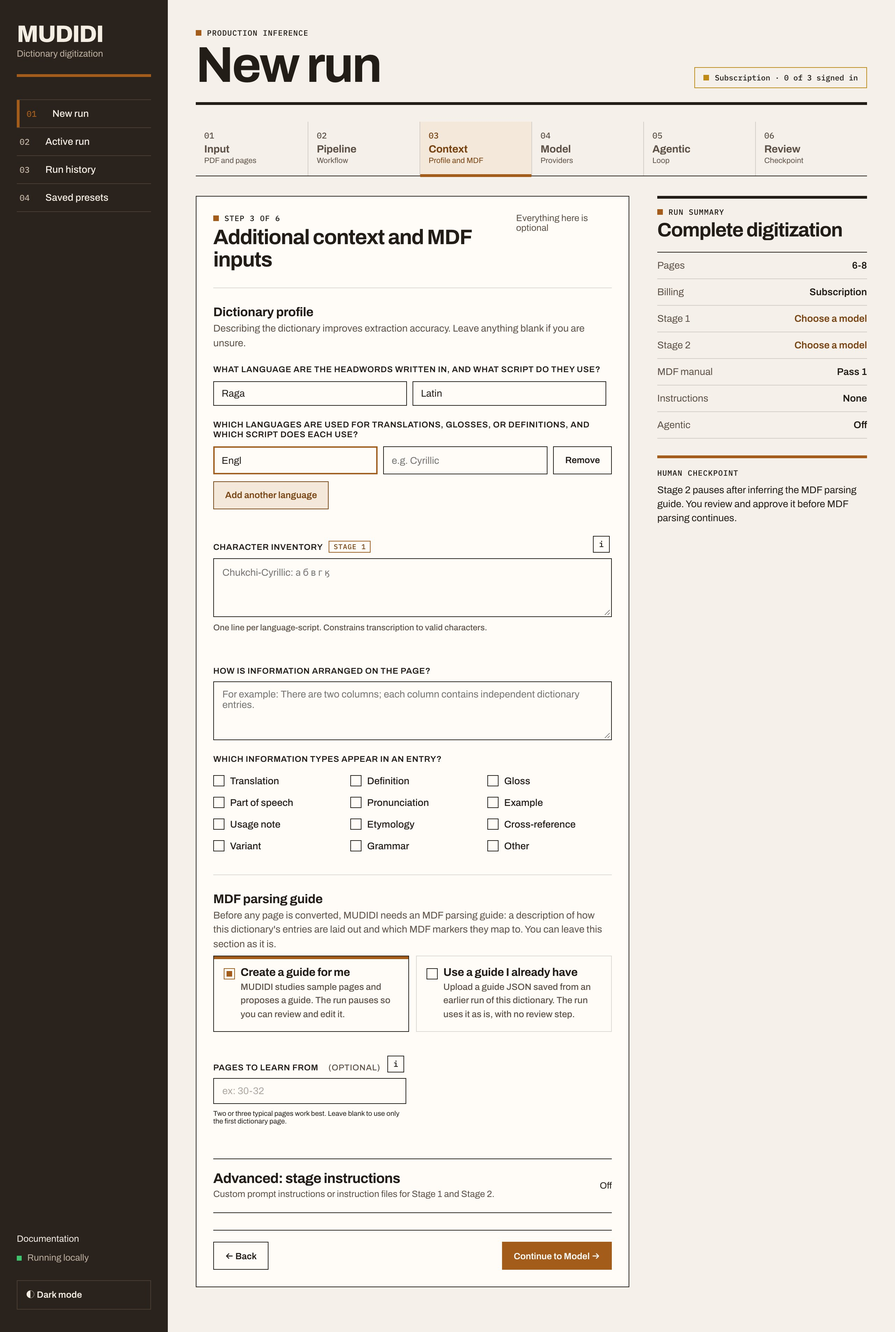
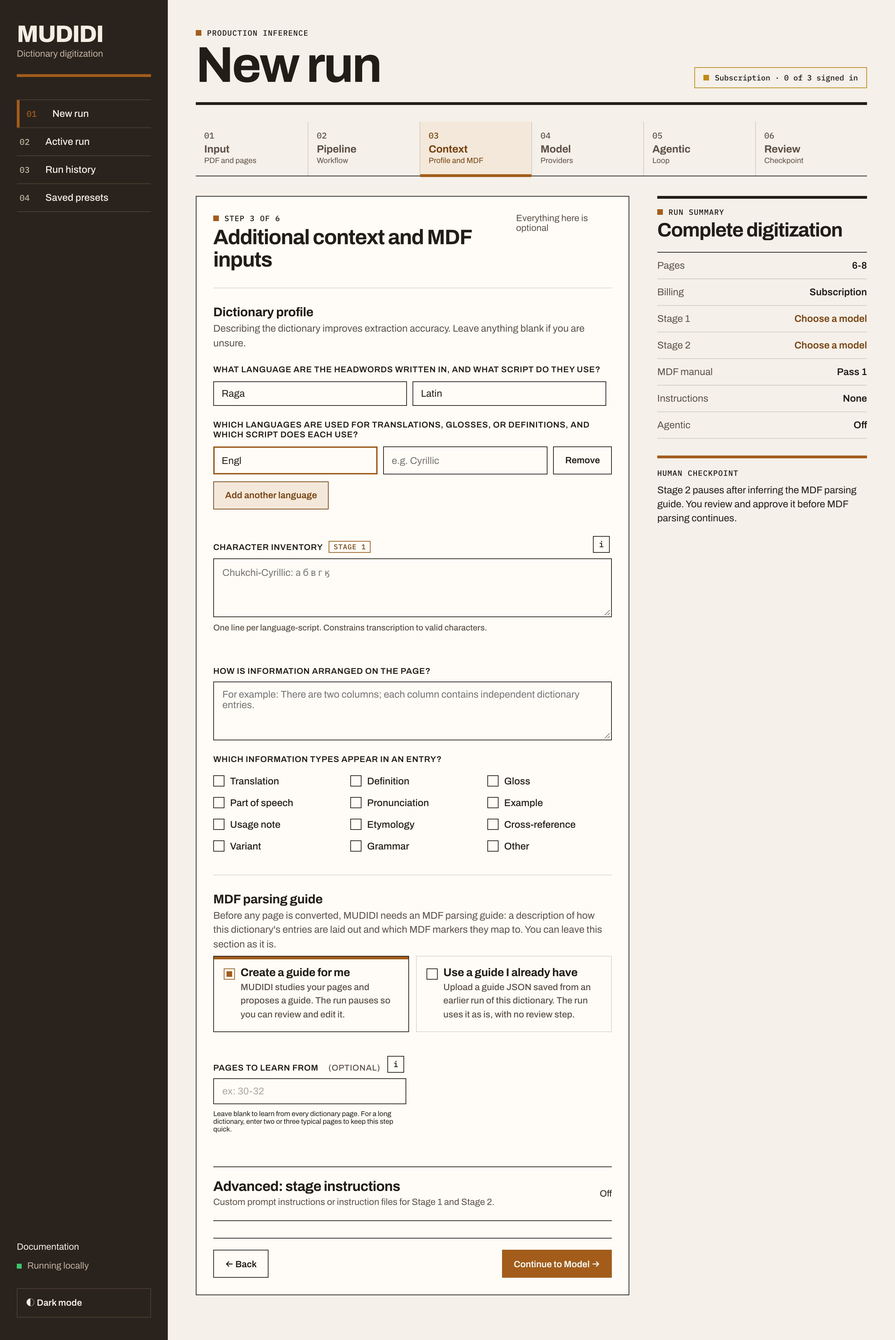
chore(demo): recapture the context step with the all-pages hint

diff --git a/demo-video/index.html b/demo-video/index.html
@@ -116,7 +116,7 @@
         </div>
       </section>
       <section id="scene-context" class="clip scene" data-start="16.4" data-duration="15.2" data-track-index="1">
-        <div id="stage-context" class="stage" data-layout-allow-overflow style="height: 1904px">
+        <div id="stage-context" class="stage" data-layout-allow-overflow style="height: 1915px">
           <img id="f-cx-0" class="frame" src="assets/cap/cx-0.jpg" alt="" style="opacity: 1" />
           <img id="f-cx-head-1" class="frame" src="assets/cap/cx-head-1.jpg" alt="" style="opacity: 0" />
           <img id="f-cx-head-2" class="frame" src="assets/cap/cx-head-2.jpg" alt="" style="opacity: 0" />
@@ -263,7 +263,7 @@
     </div>
     <script>
       // Everything here replays the schedule computed in capture/build.mjs.
-      const OPS = [{"k":"from","sel":"#scan-sheet","a":{"opacity":0,"y":70,"duration":0.7,"ease":"power3.out"},"t":0.1},{"k":"from","sel":"#scan-eyebrow","a":{"opacity":0,"duration":0.5,"ease":"power2.out"},"t":0.5},{"k":"fromTo","sel":"#scan-line","a":{"y":-10,"opacity":0},"b":{"opacity":1,"duration":0.2},"t":0.9},{"k":"to","sel":"#scan-line","a":{"y":900,"duration":3.6,"ease":"none"},"t":1},{"k":"to","sel":"#scan-line","a":{"opacity":0,"duration":0.3},"t":4.5},{"k":"fromTo","sel":"#scan-box-1","a":{"opacity":0,"scaleX":0.3},"b":{"opacity":1,"scaleX":1,"duration":0.3,"ease":"power3.out"},"t":1.95},{"k":"to","sel":"#scan-link-1","a":{"strokeDashoffset":0,"duration":0.4,"ease":"power2.inOut"},"t":2.05},{"k":"from","sel":"#scan-record-1","a":{"opacity":0,"x":40,"duration":0.35,"ease":"power3.out"},"t":2.25},{"k":"fromTo","sel":"#scan-r1a","a":{"clipPath":"inset(0 100% 0 0)"},"b":{"clipPath":"inset(0 0% 0 0)","duration":0.3,"ease":"steps(10)"},"t":2.4},{"k":"fromTo","sel":"#scan-r1b","a":{"clipPath":"inset(0 100% 0 0)"},"b":{"clipPath":"inset(0 0% 0 0)","duration":0.3,"ease":"steps(10)"},"t":2.62},{"k":"fromTo","sel":"#scan-r1c","a":{"clipPath":"inset(0 100% 0 0)"},"b":{"clipPath":"inset(0 0% 0 0)","duration":0.3,"ease":"steps(10)"},"t":2.84},{"k":"fromTo","sel":"#scan-box-2","a":{"opacity":0,"scaleX":0.3},"b":{"opacity":1,"scaleX":1,"duration":0.3,"ease":"power3.out"},"t":2.7},{"k":"to","sel":"#scan-link-2","a":{"strokeDashoffset":0,"duration":0.4,"ease":"power2.inOut"},"t":2.8000000000000003},{"k":"from","sel":"#scan-record-2","a":{"opacity":0,"x":40,"duration":0.35,"ease":"power3.out"},"t":3},{"k":"fromTo","sel":"#scan-r2a","a":{"clipPath":"inset(0 100% 0 0)"},"b":{"clipPath":"inset(0 0% 0 0)","duration":0.3,"ease":"steps(10)"},"t":3.15},{"k":"fromTo","sel":"#scan-r2b","a":{"clipPath":"inset(0 100% 0 0)"},"b":{"clipPath":"inset(0 0% 0 0)","duration":0.3,"ease":"steps(10)"},"t":3.37},{"k":"fromTo","sel":"#scan-box-3","a":{"opacity":0,"scaleX":0.3},"b":{"opacity":1,"scaleX":1,"duration":0.3,"ease":"power3.out"},"t":4.15},{"k":"to","sel":"#scan-link-3","a":{"strokeDashoffset":0,"duration":0.4,"ease":"power2.inOut"},"t":4.25},{"k":"from","sel":"#scan-record-3","a":{"opacity":0,"x":40,"duration":0.35,"ease":"power3.out"},"t":4.45},{"k":"fromTo","sel":"#scan-r3a","a":{"clipPath":"inset(0 100% 0 0)"},"b":{"clipPath":"inset(0 0% 0 0)","duration":0.3,"ease":"steps(10)"},"t":4.6},{"k":"fromTo","sel":"#scan-r3b","a":{"clipPath":"inset(0 100% 0 0)"},"b":{"clipPath":"inset(0 0% 0 0)","duration":0.3,"ease":"steps(10)"},"t":4.82},{"k":"fromTo","sel":"#scan-r3c","a":{"clipPath":"inset(0 100% 0 0)"},"b":{"clipPath":"inset(0 0% 0 0)","duration":0.3,"ease":"steps(10)"},"t":5.04},{"k":"from","sel":"#scan-title","a":{"opacity":0,"y":40,"duration":0.6,"ease":"power3.out"},"t":5.3},{"k":"to","sel":["#scan-sheet","#scan-links","#scan-copy"],"a":{"opacity":0,"duration":0.3,"ease":"power1.in"},"t":6.85},{"k":"cam","scene":"input","view":{"x":200,"y":240,"w":1080},"d":0,"t":7.2},{"k":"fromTo","sel":"#stage-input","a":{"opacity":0},"b":{"opacity":1,"duration":0.3,"ease":"power1.out"},"t":7.2},{"k":"fromTo","sel":"#chip-body","a":{"x":70,"y":730,"opacity":0,"scale":0.9},"b":{"opacity":1,"scale":1,"duration":0.35,"ease":"power2.out"},"t":7.5},{"k":"cursor","to":[340.625,690],"d":0.7,"rest":true,"t":7.5},{"k":"click","t":8.38},{"k":"to","sel":"#chip-body","a":{"x":513.3333333333334,"y":385.8333333333333,"duration":1.1,"ease":"power2.inOut"},"t":8.67},{"k":"cursor","to":[590,496.40625],"d":1.1,"rest":false,"t":8.67},{"k":"frame","name":"in-drag","t":9.42},{"k":"to","sel":"#chip-body","a":{"opacity":0,"scale":0.7,"duration":0.25,"ease":"power2.in"},"t":10.02},{"k":"click","t":10.2},{"k":"frame","name":"in-file","t":10.34},{"k":"cam","scene":"input","view":{"x":250,"y":330,"w":940},"d":0.7,"t":11.04},{"k":"cursor","to":[443,707.828125],"d":0.8,"rest":false,"t":11.04},{"k":"click","t":12.02},{"k":"frame","name":"in-pages-1","t":12.38},{"k":"frame","name":"in-pages-2","t":12.6},{"k":"frame","name":"in-pages-3","t":12.82},{"k":"cam","scene":"input","view":{"x":200,"y":130,"w":1080},"d":0.7,"t":13.62},{"k":"cursor","to":[680.5,213.609375],"d":0.8,"rest":false,"t":14.32},{"k":"click","t":15.3},{"k":"cam","scene":"context","view":{"x":200,"y":130,"w":1080},"d":0,"t":16.4},{"k":"cam","scene":"context","view":{"x":240,"y":440,"w":960},"d":0.8,"t":16.7},{"k":"cursor","to":[443.5,562.578125],"d":0.6,"rest":false,"t":17.5},{"k":"click","t":18.28},{"k":"frame","name":"cx-head-1","t":18.6},{"k":"frame","name":"cx-head-2","t":18.78},{"k":"cursor","to":[728.5,562.578125],"d":0.4,"rest":false,"t":18.78},{"k":"click","t":19.36},{"k":"frame","name":"cx-hs-1","t":19.5},{"k":"cursor","to":[422.59375,658.078125],"d":0.45,"rest":false,"t":19.5},{"k":"click","t":20.13},{"k":"frame","name":"cx-tl-1","t":20.45},{"k":"frame","name":"cx-tl-2","t":20.63},{"k":"cursor","to":[665.78125,658.078125],"d":0.4,"rest":false,"t":20.63},{"k":"click","t":21.21},{"k":"frame","name":"cx-ts-1","t":21.35},{"k":"cursor","to":[590,840.078125],"d":0.5,"rest":false,"t":21.35},{"k":"click","t":22.03},{"k":"frame","name":"cx-inv-1","t":22.37},{"k":"frame","name":"cx-inv-2","t":22.57},{"k":"frame","name":"cx-inv-3","t":22.77},{"k":"frame","name":"cx-inv-4","t":22.97},{"k":"cam","scene":"context","view":{"x":240,"y":760,"w":960},"d":0.7,"t":23.37},{"k":"cursor","to":[590,1016.078125],"d":0.5,"rest":false,"t":24.07},{"k":"click","t":24.75},{"k":"frame","name":"cx-lay-1","t":25.06},{"k":"frame","name":"cx-lay-2","t":25.23},{"k":"frame","name":"cx-lay-3","t":25.4},{"k":"frame","name":"cx-lay-4","t":25.57},{"k":"frame","name":"cx-lay-5","t":25.74},{"k":"frame","name":"cx-lay-6","t":25.91},{"k":"frame","name":"cx-lay-7","t":26.08},{"k":"frame","name":"cx-lay-8","t":26.25},{"k":"cursor","to":[313,1116.078125],"d":0.45,"rest":false,"t":26.55},{"k":"cursor","to":[313,1209.078125],"d":1.2,"rest":false,"t":27.1},{"k":"frame","name":"cx-type-1","t":27.17},{"k":"frame","name":"cx-type-2","t":27.34},{"k":"frame","name":"cx-type-3","t":27.51},{"k":"frame","name":"cx-type-4","t":27.68},{"k":"frame","name":"cx-type-5","t":27.85},{"k":"frame","name":"cx-type-6","t":28.02},{"k":"frame","name":"cx-type-7","t":28.19},{"k":"cam","scene":"context","view":{"x":240,"y":1394.65625,"w":960},"d":1,"t":28.89},{"k":"cursor","to":[796.3671875,1794.65625],"d":0.7,"rest":false,"t":29.89},{"k":"click","t":30.77},{"k":"cam","scene":"model","view":{"x":240,"y":640,"w":960},"d":0,"t":31.6},{"k":"fromTo","sel":"#stage-model","a":{"opacity":0},"b":{"opacity":1,"duration":0.3,"ease":"power1.out"},"t":31.6},{"k":"cursor","to":[356.484375,897.640625],"d":0.8,"rest":false,"t":32},{"k":"click","t":32.98},{"k":"frame","name":"md-waiting","t":33.12},{"k":"fromTo","sel":"#popup-shade","a":{"opacity":0},"b":{"opacity":1,"duration":0.25,"ease":"power1.out"},"t":33.42},{"k":"fromTo","sel":"#popup-window","a":{"opacity":0,"scale":0.92,"y":30},"b":{"opacity":1,"scale":1,"y":0,"duration":0.35,"ease":"power3.out"},"t":33.42},{"k":"cursor","to":[720,930],"d":0.7,"rest":true,"t":34.02},{"k":"click","t":34.9},{"k":"to","sel":"#popup-choose","a":{"opacity":0,"duration":0.15},"t":35.04},{"k":"to","sel":"#popup-done","a":{"opacity":1,"duration":0.2},"t":35.19},{"k":"fromTo","sel":"#done-mark","a":{"scale":0.4},"b":{"scale":1,"duration":0.4,"ease":"back.out(2)"},"t":35.19},{"k":"frame","name":"md-signed","t":36.39},{"k":"to","sel":"#popup-window","a":{"opacity":0,"scale":0.95,"duration":0.25,"ease":"power2.in"},"t":36.39},{"k":"to","sel":"#popup-shade","a":{"opacity":0,"duration":0.25},"t":36.39},{"k":"cursor","to":[443,1099.640625],"d":0.8,"rest":false,"t":37.39},{"k":"click","t":38.37},{"k":"frame","name":"md-prov1","t":38.51},{"k":"cursor","to":[737,1099.640625],"d":0.6,"rest":false,"t":39.01},{"k":"click","t":39.79},{"k":"frame","name":"md-prov2","t":39.93},{"k":"cam","scene":"model","view":{"x":240,"y":1060,"w":960},"d":0.8,"t":40.53},{"k":"cursor","to":[443,1278.640625],"d":0.75,"rest":false,"t":41.63},{"k":"click","t":42.56},{"k":"frame","name":"md-model1","t":42.7},{"k":"cursor","to":[737,1278.640625],"d":0.75,"rest":false,"t":43.45},{"k":"click","t":44.38},{"k":"frame","name":"md-reason1","t":44.52},{"k":"cursor","to":[443,1457.640625],"d":0.75,"rest":false,"t":45.27},{"k":"click","t":46.2},{"k":"frame","name":"md-model2","t":46.34},{"k":"cursor","to":[737,1457.640625],"d":0.75,"rest":false,"t":47.09},{"k":"click","t":48.02},{"k":"frame","name":"md-reason2","t":48.16},{"k":"cam","scene":"model","view":{"x":240,"y":1200,"w":960},"d":0.6,"t":49.21},{"k":"cursor","to":[791.75,1644.640625],"d":0.7,"rest":false,"t":49.81},{"k":"click","t":50.69},{"k":"cam","scene":"agentic","view":{"x":200,"y":330,"w":1080},"d":0,"t":51.6},{"k":"cursor","to":[631,634.265625],"d":0.8,"rest":false,"t":52},{"k":"click","t":52.98},{"k":"frame","name":"ag-on","t":53.12},{"k":"cam","scene":"agentic","view":{"x":200,"y":862.859375,"w":1080},"d":1.4,"t":54.52},{"k":"cursor","to":[817.5546875,1352.859375],"d":0.7,"rest":false,"t":56.22},{"k":"click","t":57.1},{"k":"cam","scene":"run1","view":{"x":180,"y":230,"w":1100},"d":0,"t":58},{"k":"fromTo","sel":"#stage-run1","a":{"opacity":0},"b":{"opacity":1,"duration":0.3,"ease":"power1.out"},"t":58},{"k":"cursor","to":[760,520],"d":0.6,"rest":true,"t":58},{"k":"frame","name":"ov-s1-1","t":59.5},{"k":"frame","name":"ov-s1-2","t":60.4},{"k":"frame","name":"ov-disc","t":61.3},{"k":"frame","name":"ov-review","t":62.2},{"k":"cursor","to":[476.4609375,686.53125],"d":0.7,"rest":false,"t":62.6},{"k":"click","t":63.48},{"k":"cam","scene":"guide","view":{"x":200,"y":0,"w":1080},"d":0,"t":64.4},{"k":"fromTo","sel":"#stage-guide","a":{"opacity":0},"b":{"opacity":1,"duration":0.3,"ease":"power1.out"},"t":64.4},{"k":"cursor","to":[900,400],"d":0.5,"rest":true,"t":64.4},{"k":"cam","scene":"guide","view":{"x":200,"y":892,"w":1080},"d":2.8,"t":65.2},{"k":"cursor","to":[1118.234375,1463.078125],"d":0.7,"rest":false,"t":68.2},{"k":"click","t":69.08},{"k":"cam","scene":"run2","view":{"x":180,"y":215,"w":1100},"d":0,"t":70},{"k":"fromTo","sel":"#stage-run2","a":{"opacity":0},"b":{"opacity":1,"duration":0.3,"ease":"power1.out"},"t":70},{"k":"cursor","to":[760,560],"d":0.5,"rest":true,"t":70},{"k":"frame","name":"ov-s2-2","t":71},{"k":"frame","name":"ov-done","t":71.8},{"k":"cursor","to":[590.859375,249.03125],"d":0.7,"rest":false,"t":72.4},{"k":"click","t":73.28},{"k":"cam","scene":"pages","view":{"x":240,"y":330,"w":1040},"d":0,"t":74},{"k":"fromTo","sel":"#stage-pages","a":{"opacity":0},"b":{"opacity":1,"duration":0.3,"ease":"power1.out"},"t":74},{"k":"cursor","to":[520,640],"d":0.6,"rest":true,"t":74},{"k":"cam","scene":"pages","view":{"x":240,"y":560,"w":1040},"d":1,"t":75.1},{"k":"cursor","to":[876,960],"d":0.7,"rest":true,"t":76.8},{"k":"click","t":77.68},{"k":"frame","name":"pg-edit-1","t":78.02},{"k":"frame","name":"pg-edit-2","t":78.32},{"k":"cam","scene":"pages","view":{"x":240,"y":700,"w":1040},"d":0.6,"t":79.22},{"k":"cursor","to":[1164.6484375,1190.265625],"d":0.7,"rest":false,"t":79.82},{"k":"click","t":80.7},{"k":"from","sel":"#outro-word","a":{"opacity":0,"y":60,"duration":0.7,"ease":"power3.out"},"t":82.15},{"k":"from","sel":"#outro-rule","a":{"scaleX":0,"duration":0.8,"ease":"power2.inOut"},"t":82.5},{"k":"from","sel":"#outro-line","a":{"opacity":0,"y":24,"duration":0.6,"ease":"power2.out"},"t":82.9},{"k":"from","sel":"#outro-local","a":{"opacity":0,"duration":0.6,"ease":"power2.out"},"t":83.4},{"k":"to","sel":"#outro-copy","a":{"opacity":0,"duration":0.8,"ease":"power1.in"},"t":85.9},{"k":"fromTo","sel":"#caption-text-0","a":{"opacity":0,"y":24},"b":{"opacity":1,"y":0,"duration":0.3,"ease":"power2.out"},"t":7.4},{"k":"to","sel":"#caption-text-0","a":{"opacity":0,"duration":0.2,"ease":"power1.in"},"t":15.14},{"k":"fromTo","sel":"#caption-text-1","a":{"opacity":0,"y":24},"b":{"opacity":1,"y":0,"duration":0.3,"ease":"power2.out"},"t":16.6},{"k":"to","sel":"#caption-text-1","a":{"opacity":0,"duration":0.2,"ease":"power1.in"},"t":28.69},{"k":"fromTo","sel":"#caption-text-2","a":{"opacity":0,"y":24},"b":{"opacity":1,"y":0,"duration":0.3,"ease":"power2.out"},"t":31.8},{"k":"to","sel":"#caption-text-2","a":{"opacity":0,"duration":0.2,"ease":"power1.in"},"t":37.19},{"k":"fromTo","sel":"#caption-text-3","a":{"opacity":0,"y":24},"b":{"opacity":1,"y":0,"duration":0.3,"ease":"power2.out"},"t":40.63},{"k":"to","sel":"#caption-text-3","a":{"opacity":0,"duration":0.2,"ease":"power1.in"},"t":49.01},{"k":"fromTo","sel":"#caption-text-4","a":{"opacity":0,"y":24},"b":{"opacity":1,"y":0,"duration":0.3,"ease":"power2.out"},"t":51.9},{"k":"to","sel":"#caption-text-4","a":{"opacity":0,"duration":0.2,"ease":"power1.in"},"t":55.72},{"k":"fromTo","sel":"#caption-text-5","a":{"opacity":0,"y":24},"b":{"opacity":1,"y":0,"duration":0.3,"ease":"power2.out"},"t":58.2},{"k":"to","sel":"#caption-text-5","a":{"opacity":0,"duration":0.2,"ease":"power1.in"},"t":63.42},{"k":"fromTo","sel":"#caption-text-6","a":{"opacity":0,"y":24},"b":{"opacity":1,"y":0,"duration":0.3,"ease":"power2.out"},"t":64.6},{"k":"to","sel":"#caption-text-6","a":{"opacity":0,"duration":0.2,"ease":"power1.in"},"t":67.8},{"k":"fromTo","sel":"#caption-text-7","a":{"opacity":0,"y":24},"b":{"opacity":1,"y":0,"duration":0.3,"ease":"power2.out"},"t":70.2},{"k":"to","sel":"#caption-text-7","a":{"opacity":0,"duration":0.2,"ease":"power1.in"},"t":72.2},{"k":"fromTo","sel":"#caption-text-8","a":{"opacity":0,"y":24},"b":{"opacity":1,"y":0,"duration":0.3,"ease":"power2.out"},"t":74.2},{"k":"to","sel":"#caption-text-8","a":{"opacity":0,"duration":0.2,"ease":"power1.in"},"t":79.02}];
+      const OPS = [{"k":"from","sel":"#scan-sheet","a":{"opacity":0,"y":70,"duration":0.7,"ease":"power3.out"},"t":0.1},{"k":"from","sel":"#scan-eyebrow","a":{"opacity":0,"duration":0.5,"ease":"power2.out"},"t":0.5},{"k":"fromTo","sel":"#scan-line","a":{"y":-10,"opacity":0},"b":{"opacity":1,"duration":0.2},"t":0.9},{"k":"to","sel":"#scan-line","a":{"y":900,"duration":3.6,"ease":"none"},"t":1},{"k":"to","sel":"#scan-line","a":{"opacity":0,"duration":0.3},"t":4.5},{"k":"fromTo","sel":"#scan-box-1","a":{"opacity":0,"scaleX":0.3},"b":{"opacity":1,"scaleX":1,"duration":0.3,"ease":"power3.out"},"t":1.95},{"k":"to","sel":"#scan-link-1","a":{"strokeDashoffset":0,"duration":0.4,"ease":"power2.inOut"},"t":2.05},{"k":"from","sel":"#scan-record-1","a":{"opacity":0,"x":40,"duration":0.35,"ease":"power3.out"},"t":2.25},{"k":"fromTo","sel":"#scan-r1a","a":{"clipPath":"inset(0 100% 0 0)"},"b":{"clipPath":"inset(0 0% 0 0)","duration":0.3,"ease":"steps(10)"},"t":2.4},{"k":"fromTo","sel":"#scan-r1b","a":{"clipPath":"inset(0 100% 0 0)"},"b":{"clipPath":"inset(0 0% 0 0)","duration":0.3,"ease":"steps(10)"},"t":2.62},{"k":"fromTo","sel":"#scan-r1c","a":{"clipPath":"inset(0 100% 0 0)"},"b":{"clipPath":"inset(0 0% 0 0)","duration":0.3,"ease":"steps(10)"},"t":2.84},{"k":"fromTo","sel":"#scan-box-2","a":{"opacity":0,"scaleX":0.3},"b":{"opacity":1,"scaleX":1,"duration":0.3,"ease":"power3.out"},"t":2.7},{"k":"to","sel":"#scan-link-2","a":{"strokeDashoffset":0,"duration":0.4,"ease":"power2.inOut"},"t":2.8000000000000003},{"k":"from","sel":"#scan-record-2","a":{"opacity":0,"x":40,"duration":0.35,"ease":"power3.out"},"t":3},{"k":"fromTo","sel":"#scan-r2a","a":{"clipPath":"inset(0 100% 0 0)"},"b":{"clipPath":"inset(0 0% 0 0)","duration":0.3,"ease":"steps(10)"},"t":3.15},{"k":"fromTo","sel":"#scan-r2b","a":{"clipPath":"inset(0 100% 0 0)"},"b":{"clipPath":"inset(0 0% 0 0)","duration":0.3,"ease":"steps(10)"},"t":3.37},{"k":"fromTo","sel":"#scan-box-3","a":{"opacity":0,"scaleX":0.3},"b":{"opacity":1,"scaleX":1,"duration":0.3,"ease":"power3.out"},"t":4.15},{"k":"to","sel":"#scan-link-3","a":{"strokeDashoffset":0,"duration":0.4,"ease":"power2.inOut"},"t":4.25},{"k":"from","sel":"#scan-record-3","a":{"opacity":0,"x":40,"duration":0.35,"ease":"power3.out"},"t":4.45},{"k":"fromTo","sel":"#scan-r3a","a":{"clipPath":"inset(0 100% 0 0)"},"b":{"clipPath":"inset(0 0% 0 0)","duration":0.3,"ease":"steps(10)"},"t":4.6},{"k":"fromTo","sel":"#scan-r3b","a":{"clipPath":"inset(0 100% 0 0)"},"b":{"clipPath":"inset(0 0% 0 0)","duration":0.3,"ease":"steps(10)"},"t":4.82},{"k":"fromTo","sel":"#scan-r3c","a":{"clipPath":"inset(0 100% 0 0)"},"b":{"clipPath":"inset(0 0% 0 0)","duration":0.3,"ease":"steps(10)"},"t":5.04},{"k":"from","sel":"#scan-title","a":{"opacity":0,"y":40,"duration":0.6,"ease":"power3.out"},"t":5.3},{"k":"to","sel":["#scan-sheet","#scan-links","#scan-copy"],"a":{"opacity":0,"duration":0.3,"ease":"power1.in"},"t":6.85},{"k":"cam","scene":"input","view":{"x":200,"y":240,"w":1080},"d":0,"t":7.2},{"k":"fromTo","sel":"#stage-input","a":{"opacity":0},"b":{"opacity":1,"duration":0.3,"ease":"power1.out"},"t":7.2},{"k":"fromTo","sel":"#chip-body","a":{"x":70,"y":730,"opacity":0,"scale":0.9},"b":{"opacity":1,"scale":1,"duration":0.35,"ease":"power2.out"},"t":7.5},{"k":"cursor","to":[340.625,690],"d":0.7,"rest":true,"t":7.5},{"k":"click","t":8.38},{"k":"to","sel":"#chip-body","a":{"x":513.3333333333334,"y":385.8333333333333,"duration":1.1,"ease":"power2.inOut"},"t":8.67},{"k":"cursor","to":[590,496.40625],"d":1.1,"rest":false,"t":8.67},{"k":"frame","name":"in-drag","t":9.42},{"k":"to","sel":"#chip-body","a":{"opacity":0,"scale":0.7,"duration":0.25,"ease":"power2.in"},"t":10.02},{"k":"click","t":10.2},{"k":"frame","name":"in-file","t":10.34},{"k":"cam","scene":"input","view":{"x":250,"y":330,"w":940},"d":0.7,"t":11.04},{"k":"cursor","to":[443,707.828125],"d":0.8,"rest":false,"t":11.04},{"k":"click","t":12.02},{"k":"frame","name":"in-pages-1","t":12.38},{"k":"frame","name":"in-pages-2","t":12.6},{"k":"frame","name":"in-pages-3","t":12.82},{"k":"cam","scene":"input","view":{"x":200,"y":130,"w":1080},"d":0.7,"t":13.62},{"k":"cursor","to":[680.5,213.609375],"d":0.8,"rest":false,"t":14.32},{"k":"click","t":15.3},{"k":"cam","scene":"context","view":{"x":200,"y":130,"w":1080},"d":0,"t":16.4},{"k":"cam","scene":"context","view":{"x":240,"y":440,"w":960},"d":0.8,"t":16.7},{"k":"cursor","to":[443.5,562.578125],"d":0.6,"rest":false,"t":17.5},{"k":"click","t":18.28},{"k":"frame","name":"cx-head-1","t":18.6},{"k":"frame","name":"cx-head-2","t":18.78},{"k":"cursor","to":[728.5,562.578125],"d":0.4,"rest":false,"t":18.78},{"k":"click","t":19.36},{"k":"frame","name":"cx-hs-1","t":19.5},{"k":"cursor","to":[422.59375,658.078125],"d":0.45,"rest":false,"t":19.5},{"k":"click","t":20.13},{"k":"frame","name":"cx-tl-1","t":20.45},{"k":"frame","name":"cx-tl-2","t":20.63},{"k":"cursor","to":[665.78125,658.078125],"d":0.4,"rest":false,"t":20.63},{"k":"click","t":21.21},{"k":"frame","name":"cx-ts-1","t":21.35},{"k":"cursor","to":[590,840.078125],"d":0.5,"rest":false,"t":21.35},{"k":"click","t":22.03},{"k":"frame","name":"cx-inv-1","t":22.37},{"k":"frame","name":"cx-inv-2","t":22.57},{"k":"frame","name":"cx-inv-3","t":22.77},{"k":"frame","name":"cx-inv-4","t":22.97},{"k":"cam","scene":"context","view":{"x":240,"y":760,"w":960},"d":0.7,"t":23.37},{"k":"cursor","to":[590,1016.078125],"d":0.5,"rest":false,"t":24.07},{"k":"click","t":24.75},{"k":"frame","name":"cx-lay-1","t":25.06},{"k":"frame","name":"cx-lay-2","t":25.23},{"k":"frame","name":"cx-lay-3","t":25.4},{"k":"frame","name":"cx-lay-4","t":25.57},{"k":"frame","name":"cx-lay-5","t":25.74},{"k":"frame","name":"cx-lay-6","t":25.91},{"k":"frame","name":"cx-lay-7","t":26.08},{"k":"frame","name":"cx-lay-8","t":26.25},{"k":"cursor","to":[313,1116.078125],"d":0.45,"rest":false,"t":26.55},{"k":"cursor","to":[313,1209.078125],"d":1.2,"rest":false,"t":27.1},{"k":"frame","name":"cx-type-1","t":27.17},{"k":"frame","name":"cx-type-2","t":27.34},{"k":"frame","name":"cx-type-3","t":27.51},{"k":"frame","name":"cx-type-4","t":27.68},{"k":"frame","name":"cx-type-5","t":27.85},{"k":"frame","name":"cx-type-6","t":28.02},{"k":"frame","name":"cx-type-7","t":28.19},{"k":"cam","scene":"context","view":{"x":240,"y":1405.65625,"w":960},"d":1,"t":28.89},{"k":"cursor","to":[796.3671875,1805.65625],"d":0.7,"rest":false,"t":29.89},{"k":"click","t":30.77},{"k":"cam","scene":"model","view":{"x":240,"y":640,"w":960},"d":0,"t":31.6},{"k":"fromTo","sel":"#stage-model","a":{"opacity":0},"b":{"opacity":1,"duration":0.3,"ease":"power1.out"},"t":31.6},{"k":"cursor","to":[356.484375,897.640625],"d":0.8,"rest":false,"t":32},{"k":"click","t":32.98},{"k":"frame","name":"md-waiting","t":33.12},{"k":"fromTo","sel":"#popup-shade","a":{"opacity":0},"b":{"opacity":1,"duration":0.25,"ease":"power1.out"},"t":33.42},{"k":"fromTo","sel":"#popup-window","a":{"opacity":0,"scale":0.92,"y":30},"b":{"opacity":1,"scale":1,"y":0,"duration":0.35,"ease":"power3.out"},"t":33.42},{"k":"cursor","to":[720,930],"d":0.7,"rest":true,"t":34.02},{"k":"click","t":34.9},{"k":"to","sel":"#popup-choose","a":{"opacity":0,"duration":0.15},"t":35.04},{"k":"to","sel":"#popup-done","a":{"opacity":1,"duration":0.2},"t":35.19},{"k":"fromTo","sel":"#done-mark","a":{"scale":0.4},"b":{"scale":1,"duration":0.4,"ease":"back.out(2)"},"t":35.19},{"k":"frame","name":"md-signed","t":36.39},{"k":"to","sel":"#popup-window","a":{"opacity":0,"scale":0.95,"duration":0.25,"ease":"power2.in"},"t":36.39},{"k":"to","sel":"#popup-shade","a":{"opacity":0,"duration":0.25},"t":36.39},{"k":"cursor","to":[443,1099.640625],"d":0.8,"rest":false,"t":37.39},{"k":"click","t":38.37},{"k":"frame","name":"md-prov1","t":38.51},{"k":"cursor","to":[737,1099.640625],"d":0.6,"rest":false,"t":39.01},{"k":"click","t":39.79},{"k":"frame","name":"md-prov2","t":39.93},{"k":"cam","scene":"model","view":{"x":240,"y":1060,"w":960},"d":0.8,"t":40.53},{"k":"cursor","to":[443,1278.640625],"d":0.75,"rest":false,"t":41.63},{"k":"click","t":42.56},{"k":"frame","name":"md-model1","t":42.7},{"k":"cursor","to":[737,1278.640625],"d":0.75,"rest":false,"t":43.45},{"k":"click","t":44.38},{"k":"frame","name":"md-reason1","t":44.52},{"k":"cursor","to":[443,1457.640625],"d":0.75,"rest":false,"t":45.27},{"k":"click","t":46.2},{"k":"frame","name":"md-model2","t":46.34},{"k":"cursor","to":[737,1457.640625],"d":0.75,"rest":false,"t":47.09},{"k":"click","t":48.02},{"k":"frame","name":"md-reason2","t":48.16},{"k":"cam","scene":"model","view":{"x":240,"y":1200,"w":960},"d":0.6,"t":49.21},{"k":"cursor","to":[791.75,1644.640625],"d":0.7,"rest":false,"t":49.81},{"k":"click","t":50.69},{"k":"cam","scene":"agentic","view":{"x":200,"y":330,"w":1080},"d":0,"t":51.6},{"k":"cursor","to":[631,634.265625],"d":0.8,"rest":false,"t":52},{"k":"click","t":52.98},{"k":"frame","name":"ag-on","t":53.12},{"k":"cam","scene":"agentic","view":{"x":200,"y":862.859375,"w":1080},"d":1.4,"t":54.52},{"k":"cursor","to":[817.5546875,1352.859375],"d":0.7,"rest":false,"t":56.22},{"k":"click","t":57.1},{"k":"cam","scene":"run1","view":{"x":180,"y":230,"w":1100},"d":0,"t":58},{"k":"fromTo","sel":"#stage-run1","a":{"opacity":0},"b":{"opacity":1,"duration":0.3,"ease":"power1.out"},"t":58},{"k":"cursor","to":[760,520],"d":0.6,"rest":true,"t":58},{"k":"frame","name":"ov-s1-1","t":59.5},{"k":"frame","name":"ov-s1-2","t":60.4},{"k":"frame","name":"ov-disc","t":61.3},{"k":"frame","name":"ov-review","t":62.2},{"k":"cursor","to":[476.4609375,686.53125],"d":0.7,"rest":false,"t":62.6},{"k":"click","t":63.48},{"k":"cam","scene":"guide","view":{"x":200,"y":0,"w":1080},"d":0,"t":64.4},{"k":"fromTo","sel":"#stage-guide","a":{"opacity":0},"b":{"opacity":1,"duration":0.3,"ease":"power1.out"},"t":64.4},{"k":"cursor","to":[900,400],"d":0.5,"rest":true,"t":64.4},{"k":"cam","scene":"guide","view":{"x":200,"y":892,"w":1080},"d":2.8,"t":65.2},{"k":"cursor","to":[1118.234375,1463.078125],"d":0.7,"rest":false,"t":68.2},{"k":"click","t":69.08},{"k":"cam","scene":"run2","view":{"x":180,"y":215,"w":1100},"d":0,"t":70},{"k":"fromTo","sel":"#stage-run2","a":{"opacity":0},"b":{"opacity":1,"duration":0.3,"ease":"power1.out"},"t":70},{"k":"cursor","to":[760,560],"d":0.5,"rest":true,"t":70},{"k":"frame","name":"ov-s2-2","t":71},{"k":"frame","name":"ov-done","t":71.8},{"k":"cursor","to":[590.859375,249.03125],"d":0.7,"rest":false,"t":72.4},{"k":"click","t":73.28},{"k":"cam","scene":"pages","view":{"x":240,"y":330,"w":1040},"d":0,"t":74},{"k":"fromTo","sel":"#stage-pages","a":{"opacity":0},"b":{"opacity":1,"duration":0.3,"ease":"power1.out"},"t":74},{"k":"cursor","to":[520,640],"d":0.6,"rest":true,"t":74},{"k":"cam","scene":"pages","view":{"x":240,"y":560,"w":1040},"d":1,"t":75.1},{"k":"cursor","to":[876,960],"d":0.7,"rest":true,"t":76.8},{"k":"click","t":77.68},{"k":"frame","name":"pg-edit-1","t":78.02},{"k":"frame","name":"pg-edit-2","t":78.32},{"k":"cam","scene":"pages","view":{"x":240,"y":700,"w":1040},"d":0.6,"t":79.22},{"k":"cursor","to":[1164.6484375,1190.265625],"d":0.7,"rest":false,"t":79.82},{"k":"click","t":80.7},{"k":"from","sel":"#outro-word","a":{"opacity":0,"y":60,"duration":0.7,"ease":"power3.out"},"t":82.15},{"k":"from","sel":"#outro-rule","a":{"scaleX":0,"duration":0.8,"ease":"power2.inOut"},"t":82.5},{"k":"from","sel":"#outro-line","a":{"opacity":0,"y":24,"duration":0.6,"ease":"power2.out"},"t":82.9},{"k":"from","sel":"#outro-local","a":{"opacity":0,"duration":0.6,"ease":"power2.out"},"t":83.4},{"k":"to","sel":"#outro-copy","a":{"opacity":0,"duration":0.8,"ease":"power1.in"},"t":85.9},{"k":"fromTo","sel":"#caption-text-0","a":{"opacity":0,"y":24},"b":{"opacity":1,"y":0,"duration":0.3,"ease":"power2.out"},"t":7.4},{"k":"to","sel":"#caption-text-0","a":{"opacity":0,"duration":0.2,"ease":"power1.in"},"t":15.14},{"k":"fromTo","sel":"#caption-text-1","a":{"opacity":0,"y":24},"b":{"opacity":1,"y":0,"duration":0.3,"ease":"power2.out"},"t":16.6},{"k":"to","sel":"#caption-text-1","a":{"opacity":0,"duration":0.2,"ease":"power1.in"},"t":28.69},{"k":"fromTo","sel":"#caption-text-2","a":{"opacity":0,"y":24},"b":{"opacity":1,"y":0,"duration":0.3,"ease":"power2.out"},"t":31.8},{"k":"to","sel":"#caption-text-2","a":{"opacity":0,"duration":0.2,"ease":"power1.in"},"t":37.19},{"k":"fromTo","sel":"#caption-text-3","a":{"opacity":0,"y":24},"b":{"opacity":1,"y":0,"duration":0.3,"ease":"power2.out"},"t":40.63},{"k":"to","sel":"#caption-text-3","a":{"opacity":0,"duration":0.2,"ease":"power1.in"},"t":49.01},{"k":"fromTo","sel":"#caption-text-4","a":{"opacity":0,"y":24},"b":{"opacity":1,"y":0,"duration":0.3,"ease":"power2.out"},"t":51.9},{"k":"to","sel":"#caption-text-4","a":{"opacity":0,"duration":0.2,"ease":"power1.in"},"t":55.72},{"k":"fromTo","sel":"#caption-text-5","a":{"opacity":0,"y":24},"b":{"opacity":1,"y":0,"duration":0.3,"ease":"power2.out"},"t":58.2},{"k":"to","sel":"#caption-text-5","a":{"opacity":0,"duration":0.2,"ease":"power1.in"},"t":63.42},{"k":"fromTo","sel":"#caption-text-6","a":{"opacity":0,"y":24},"b":{"opacity":1,"y":0,"duration":0.3,"ease":"power2.out"},"t":64.6},{"k":"to","sel":"#caption-text-6","a":{"opacity":0,"duration":0.2,"ease":"power1.in"},"t":67.8},{"k":"fromTo","sel":"#caption-text-7","a":{"opacity":0,"y":24},"b":{"opacity":1,"y":0,"duration":0.3,"ease":"power2.out"},"t":70.2},{"k":"to","sel":"#caption-text-7","a":{"opacity":0,"duration":0.2,"ease":"power1.in"},"t":72.2},{"k":"fromTo","sel":"#caption-text-8","a":{"opacity":0,"y":24},"b":{"opacity":1,"y":0,"duration":0.3,"ease":"power2.out"},"t":74.2},{"k":"to","sel":"#caption-text-8","a":{"opacity":0,"duration":0.2,"ease":"power1.in"},"t":79.02}];
       const tl = gsap.timeline({ paused: true });
       const W = 1920;
       const camEvents = [];
